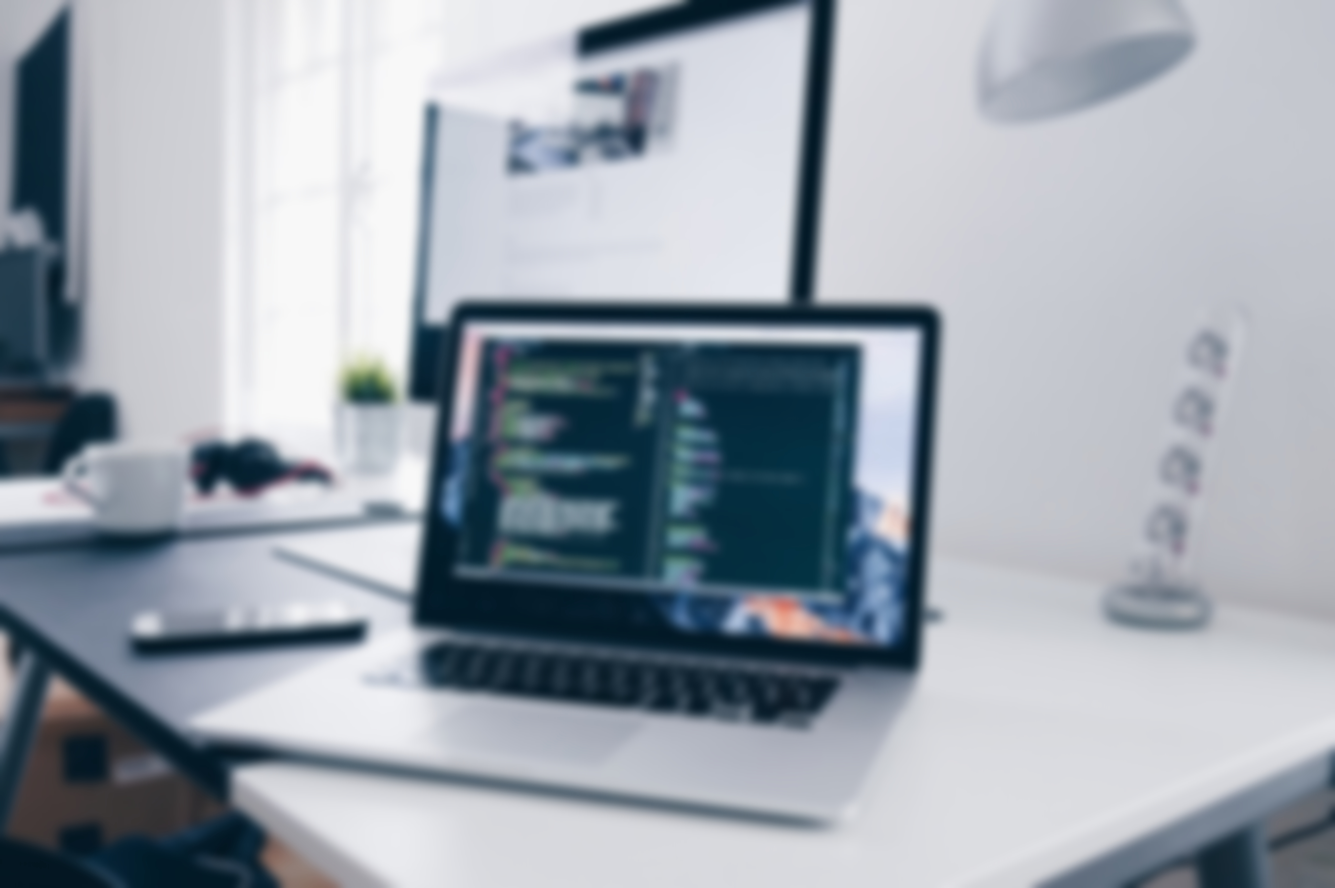
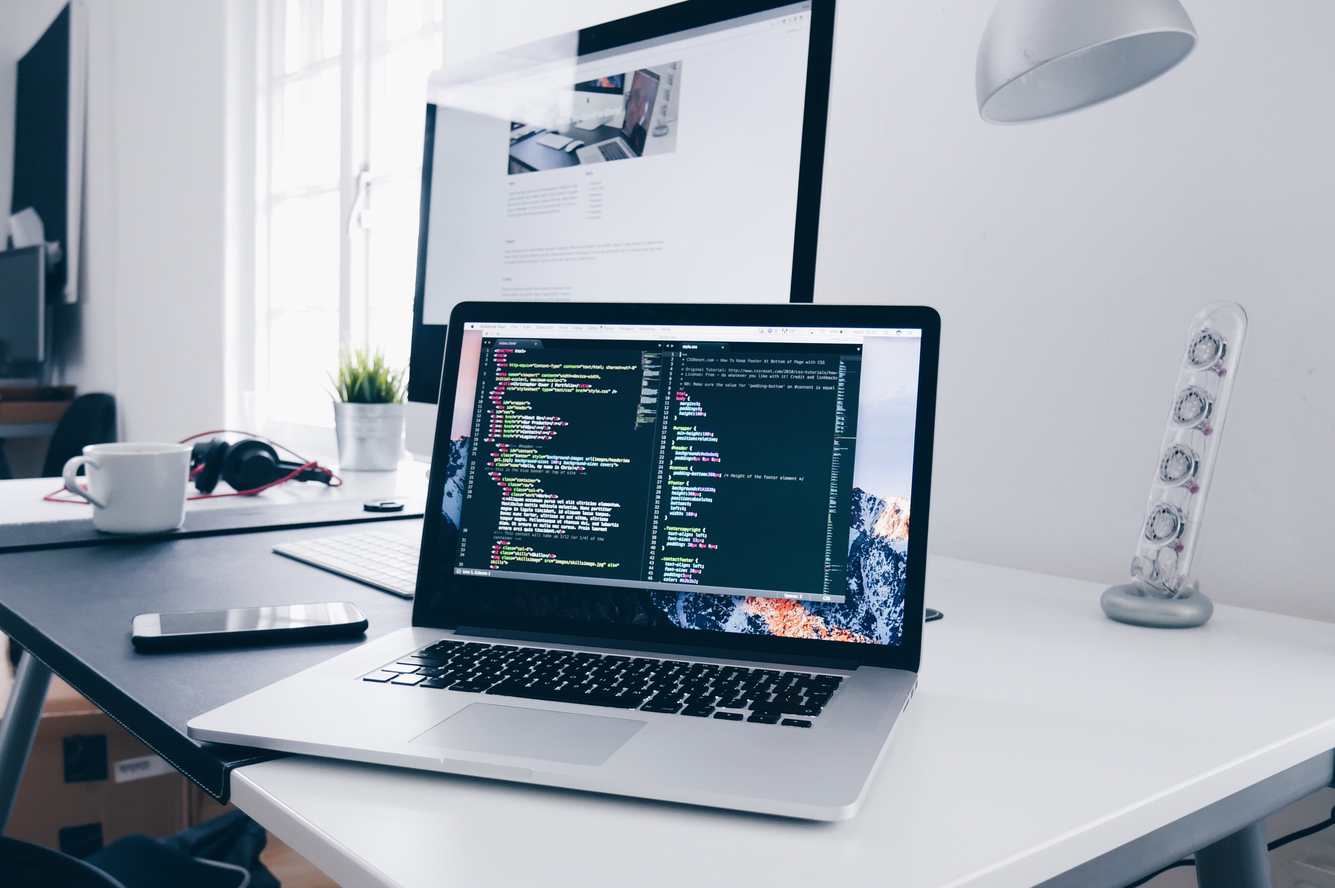
Background chenged and links fixed

diff --git a/index.html b/index.html
@@ -12,41 +12,46 @@
     </head>
 
     <body>
-        <section class='home-section'>
-            <header>
-                <nav class='navbar'>
-                    <div class='navbar-container'>
-                        <ul class='navbar-link-container'>
-                            <li class='navbar-link'>
-                                <a href='#about'>ABOUT</a>
-                            </li>
-                            <li class='navbar-link'>
-                                <a href='#projects'>PROJECTS</a>
-                            </li>
-                            <li class='navbar-link'>
-                                <a href='#'>CONTACT</a>
-                            </li>
-                        </ul>
-                    </div>
-                </nav>
-            </header>
+        <section class="home-container">
+            <div class='home-section'>
+                <header>
+                    <nav class='navbar'>
+                        <div class='navbar-container'>
+                            <ul class='navbar-link-container'>
+                                <li class='navbar-link'>
+                                    <a href='#about'>ABOUT</a>
+                                </li>
+                                <li class='navbar-link'>
+                                    <a href='#projects'>PROJECTS</a>
+                                </li>
+                                <li class='navbar-link'>
+                                    <a href='#'>CONTACT</a>
+                                </li>
+                            </ul>
+                        </div>
+                    </nav>
+                </header>
 
-            <div class='content'>
-                <h2 class='first'>
-                    Hi, my name is João Victor Bartolot,
-                </h2>
-                <h2 class='seccond'>
-                    I'm a developer.
-                </h2>
-            </div>
+                <div class='content'>
+                    <h2 class='first'>
+                        Hi, my name is
+                    </h2>
+                    <h2 class='middle'>
+                        João Victor Bartolot,
+                    </h2>
+                    <h2 class='seccond'>
+                        I'm a developer.
+                    </h2>
+                </div>
 
-            <div class="home-footer">
-                <small class="home-footer-text">
-                    Learn more about me.
-                </small>
-                <a href="#about">
-                    <img src="images/arrow-down.png" class='footer-icon'>
-                </a>
+                <div class="home-footer">
+                    <small class="home-footer-text">
+                        Learn more about me.
+                    </small>
+                    <a href="#about">
+                        <img src="images/arrow-down.png" class='footer-icon'>
+                    </a>
+                </div>
             </div>
         </section>
         <section class='about-section' id='about'>
@@ -55,30 +60,34 @@
                 <h2>Who am I?</h2>
             </div>
 
-            <div class="photo-container">
-                <div class="photo">
+            <div class="about-wrapper">
+                <div class="photo-container">
+                    <div class="photo">
+                    </div>
                 </div>
+
+                <div class="about-me">
+                    <p>
+                        I'm currently going to college to study information systems, but I am fascinated by how
+                        programming
+                        works since I was 15
+                        years old, so since then I started to learn more and more about coding. C was the first
+                        programming
+                        language that I
+                        learned, followed by pascal and python, which is the language that I am most comfortable today.
+                    </p>
+                </div>
+
             </div>
 
-            <div class="about-me">
-                <p>
-                    I'm currently going to college to study information systems, but I am fascinated by how programming
-                    works since I was 15
-                    years old, so since then I started to learn more and more about coding. C was the first programming
-                    language that I
-                    learned, followed by pascal and python, which is the language that I am most comfortable today.
-                </p>
-
-                <div class="about-footer">
-                    <small class="about-footer-text">
-                        There is some of my projects.
-                    </small>
-                    <a href="#projects">
-                        <img src="images/arrow-down-white.png" class='footer-icon'>
-                    </a>
-                </div>
+            <div class="about-footer">
+                <small class="about-footer-text">
+                    There is some of my projects.
+                </small>
+                <a href="#projects">
+                    <img src="images/arrow-down-white.png" class='footer-icon'>
+                </a>
             </div>
-
         </section>
         <section class="projects-section" id="projects">
             <div class="projects-header">
@@ -110,7 +119,7 @@
                         <h4>
                             Data visualization tool that help me in my current job.
                         </h4>
-                        <a href="https://github.com/joaobartolot/bashing" target="_Blank">
+                        <a href="https://github.com/joaobartolot/nestle" target="_Blank">
                             See code
                         </a>
                     </div>
@@ -123,7 +132,7 @@
                         <h4>
                             Custom bash scripts to automate some commom commands.
                         </h4>
-                        <a href="https://github.com/joaobartolot/nestle" id='bash' target="_Blank">
+                        <a href="https://github.com/joaobartolot/bashing" id='bash' target="_Blank">
                             See code
                         </a>
                     </div>

diff --git a/css/main.css b/css/main.css
@@ -32,11 +32,15 @@ html body {
     font-family: 'Montserrat-regular';
 }
 
-.home-section {
+.home-container{
     background: url(../images/background.jpg);
     background-repeat: no-repeat;
     background-size: cover;
     background-position-x: 10%;
+    height: 100vh;
+}
+.home-section {
+    background: rgba(255, 255, 255, 0.582);
     height: 100vh;
     margin: 0;
     padding: 0;
@@ -48,7 +52,6 @@ html body {
 .navbar-container {
     width: auto;
     flex-grow: 1;
-    background: rgba(235, 235, 235, 0.774);
 }
 
 .navbar-link-container {
@@ -80,13 +83,20 @@ div.content {
     display: flex;
     justify-content: center;
     flex-flow: column;
-    width: 50%;
+    width: 60%;
     margin-left: 9%;
-    flex-grow: 2;
+    position: relative;
+    bottom: 15%;
 }
 
 div.content .first {
     margin-bottom: 0;
+    padding-bottom: 0;
+}
+
+div.content .middle {
+    margin-bottom: 0;
+    margin-top: 0;
     padding-bottom: 0;
 }
 
@@ -101,12 +111,12 @@ div.home-footer {
     justify-content: center;
     align-items: center;
     flex-grow: 0;
-    background: rgba(235, 235, 235, 0.774);
     padding-top: 15px;
     padding-bottom: 15px;
 }
 
 div.home-footer a {
+    cursor: pointer;
     text-decoration: none;
     margin-top: 6px;
     display: flex;
@@ -126,19 +136,25 @@ div.home-footer .footer-icon {
     height: 100vh;
     display: flex;
     flex-flow: column;
-    justify-content: center;
+    justify-content: space-around;
     align-items: center;
+    background: rgb(37, 37, 37);
 }
 
 .about-header {
-    flex-grow: 1;
     display: flex;
     flex-flow: column;
     justify-content: center;
+    color: rgb(219, 219, 219);
 }
 
+.about-wrapper {
+    display: flex;
+    flex-flow: column;
+    justify-content: center;
+    align-items: center;
+}
 .photo-container {
-    flex-grow: 1;
     display: flex;
     flex-flow: column;
     justify-content: center;
@@ -153,10 +169,8 @@ div.home-footer .footer-icon {
 }
 
 .about-me {
-    background: rgb(78, 78, 78);
     width: 100%;
-    color: white;
-    flex-grow: 1;
+    color: rgb(219, 219, 219);
     display: flex;
     flex-flow: column;
     justify-content: space-around;
@@ -184,6 +198,16 @@ div.about-footer .footer-icon {
     height: auto;
 }
 
+@media (min-width: 700px) {
+    .about-wrapper {
+        flex-flow: row;
+        justify-content: space-around;
+        align-items: center;
+    }
+    .about-me {
+        width: 40%
+    }
+}
 
 /* End of the about part */
 
@@ -197,7 +221,7 @@ div.about-footer .footer-icon {
 }
 
 .projects-header {
-    background: rgb(78, 78, 78);
+    background: rgb(37, 37, 37);
     flex-grow: 1;
     display: flex;
     flex-direction: column;
